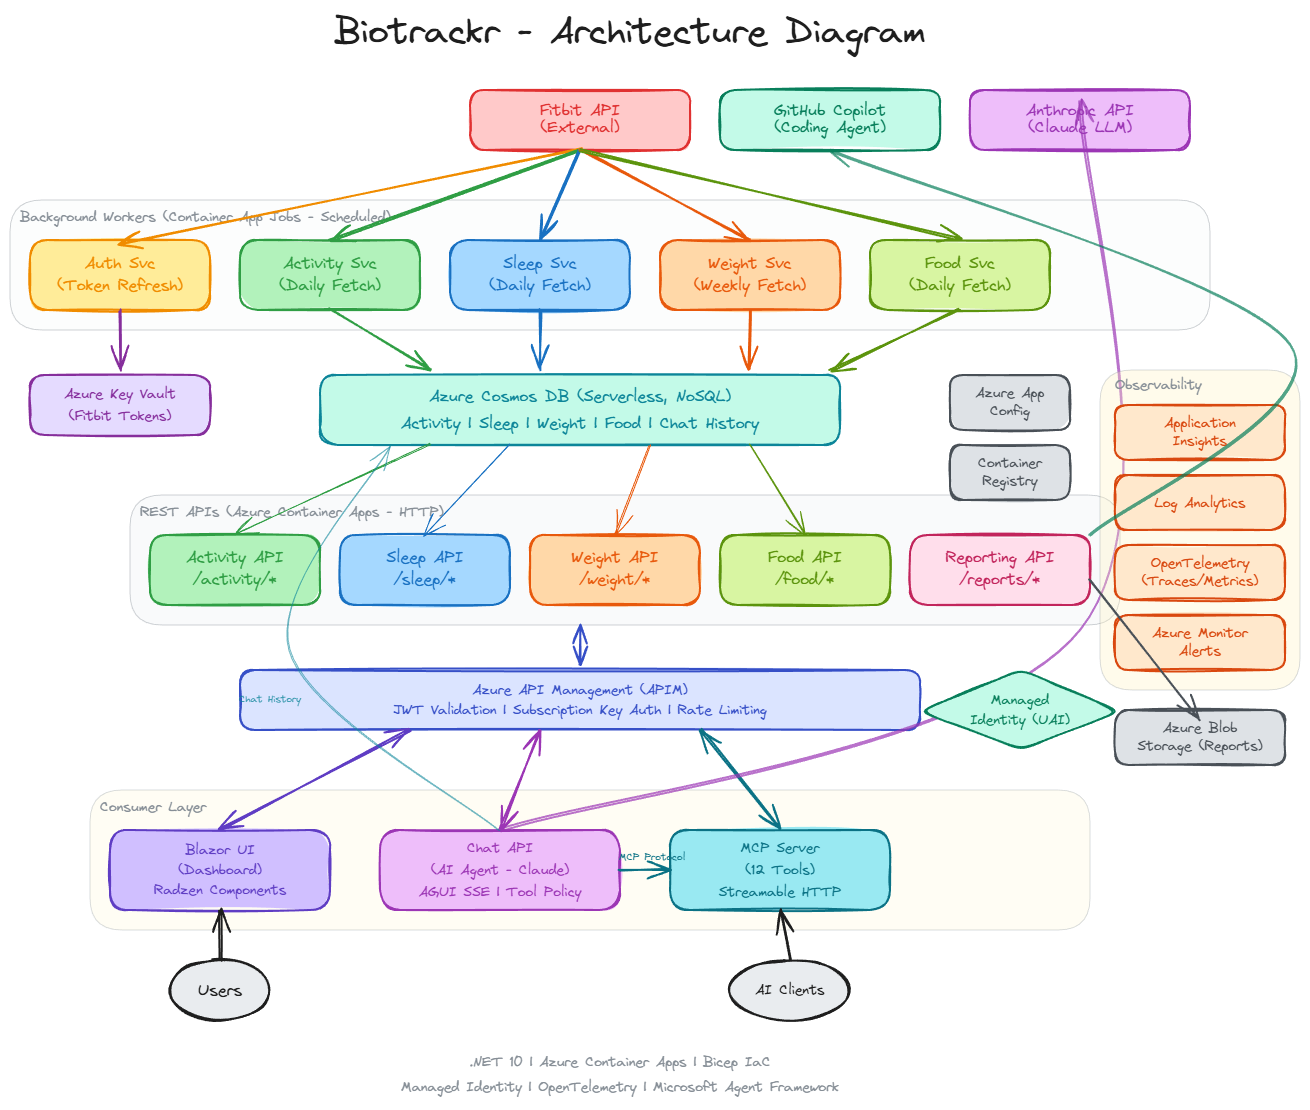
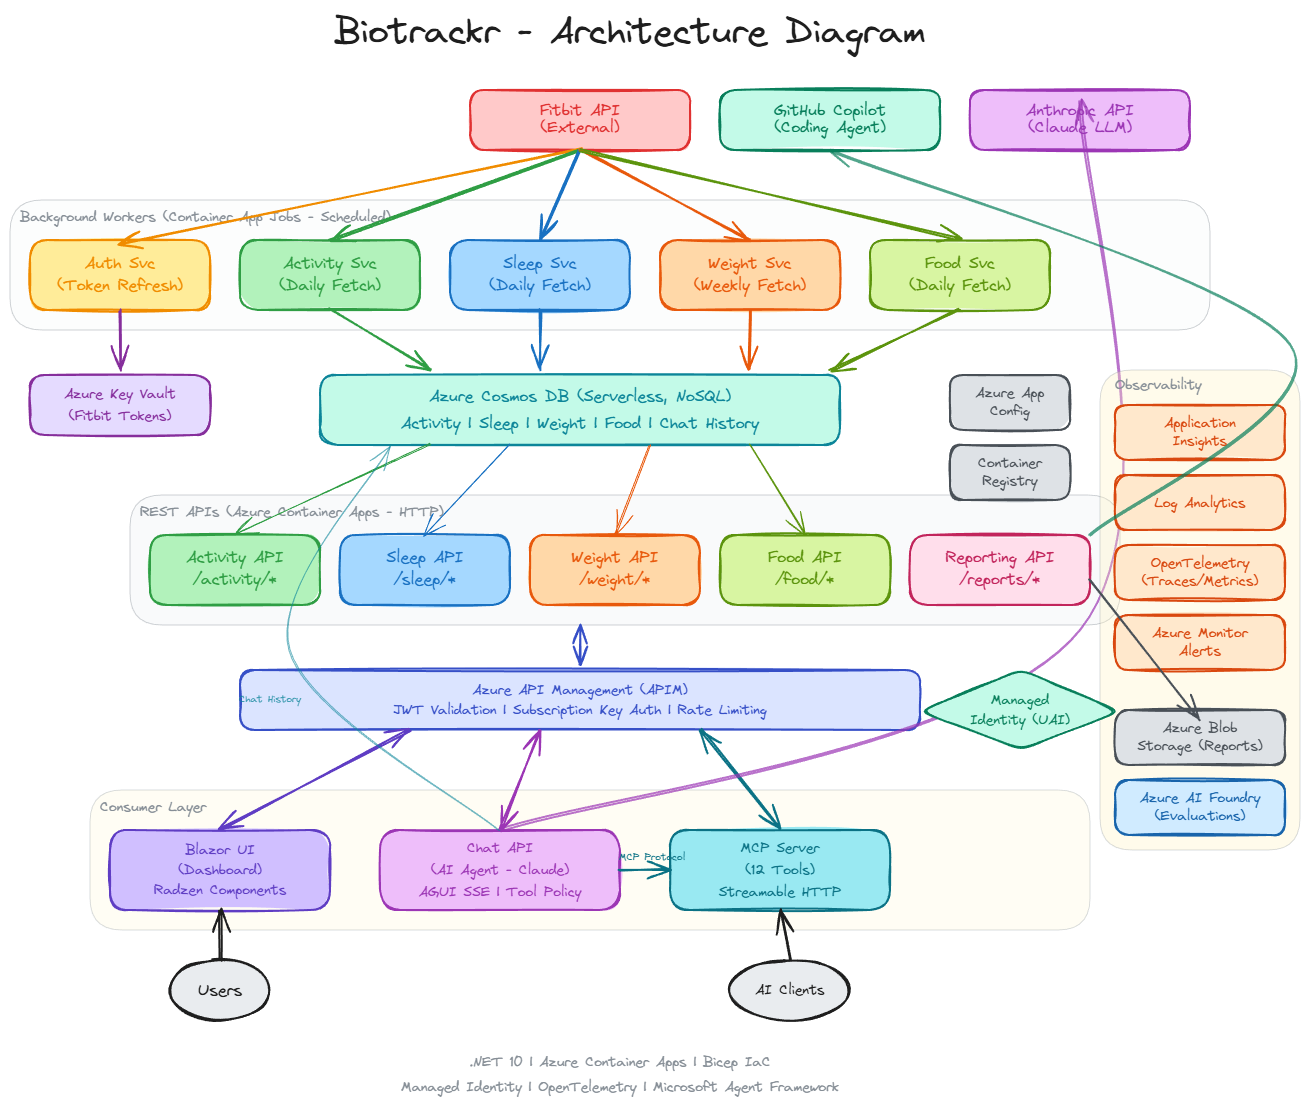
docs(adrs): add Foundry GenAIOps ADR and update README

Changed region(s): [[0.8244, 0.6739, 1.0, 0.7658]]

diff --git a/docs/decision-records/2026-03-31-foundry-genaiops-adoption.md b/docs/decision-records/2026-03-31-foundry-genaiops-adoption.md
@@ -1,0 +1,62 @@
+<!-- markdownlint-disable-file -->
+
+# Decision Record: Adopt Azure AI Foundry for GenAIOps Without Model Deployment
+
+- **Status**: Accepted
+- **Deciders**: Will Velida
+- **Date**: 31 March 2026
+- **Related Docs**: [Foundry GenAIOps Plan](.copilot-tracking/plans/2026-03-27/foundry-genaiops-plan.instructions.md), [Foundry GenAIOps Research](.copilot-tracking/research/2026-03-27/foundry-genaiops-without-model-deployment-research.md), [Evaluation API Research](.copilot-tracking/research/subagents/2026-03-31/azure-ai-projects-evaluation-api-research.md)
+
+## Context
+
+Biotrackr uses Claude Sonnet 4.6 (via Anthropic API) for two AI agents: BiotrackrChatAgent (conversational health data queries) and BiotrackrReportReviewer (report validation). The "Operationalize GenAI Apps" learning path recommended using Azure AI Foundry for evaluation, monitoring, and tracing. However, Anthropic models are not available in the Foundry Model Catalog for the subscription's region, so the standard Foundry deployment pattern (deploy model and use GPT judge evaluators) does not apply.
+
+## Decision
+
+Adopt Azure AI Foundry for GenAIOps without deploying any model in Foundry:
+
+1. Deploy Foundry resource and project via Bicep (East US 2 for RAI evaluator support).
+2. Add OpenTelemetry `gen_ai.*` semantic convention spans for Anthropic calls.
+3. Build a dataset-based evaluation pipeline using the OpenAI-compatible evals REST API with safety and groundedness evaluators (no GPT judge model).
+4. Defer custom agent registration (requires APIM v2 at approximately $175/month).
+
+Key technical decisions:
+
+- Use safety evaluators (violence, self-harm, sexual, hate_unfairness) and GroundednessProEvaluator, which run on the Content Safety backend with no GPT model dependency.
+- Skip GPT-judge quality evaluators (coherence, fluency, relevance) because Chat.Api is a data-grounded agent where these would score near-perfect and fail to discriminate between good and bad outputs.
+- Use the OpenAI-compatible REST API (`/openai/evals`) directly from C# since the .NET SDK v2.0.0-beta.2 has evaluations listed as a Known Issue.
+- Deploy Foundry to East US 2 (not Australia East where other resources reside) because the RAI safety evaluation backend only supports 5 regions.
+- Manage the blob storage connection out-of-band via CLI due to an ARM/data-plane category mismatch (ARM accepts `AzureBlob`, data plane expects `AzureBlobStorage`).
+
+## Consequences
+
+- All evaluation infrastructure is in IaC (Bicep) except the blob storage connection.
+- Evaluations run automatically via GitHub Actions on prompt changes or workflow_dispatch.
+- Safety evaluators provide meaningful protection against harmful content in health data responses.
+- No ongoing model deployment costs in Foundry.
+- Custom agent monitoring dashboard deferred until APIM v2 becomes cost-viable or Consumption SKU is supported.
+
+## Alternatives Considered
+
+1. **Deploy GPT model in Foundry for judge evaluators**: Rejected because Anthropic models are not available in the catalog, and GPT-judge quality evaluators add noise for this data-grounded agent.
+
+2. **Use Microsoft.Extensions.AI.Evaluation**: Rejected because these are local/code-based evaluators, not Foundry-side safety evaluations.
+
+3. **Use Python SDK for evaluations**: Considered as fallback. The Python SDK works reliably but adds a Python dependency to a .NET-only project. Direct REST from C# achieves the same result.
+
+4. **Deploy Foundry in Australia East**: Rejected because the RAI safety evaluation backend does not support Australia East.
+
+5. **Use APIM v2 for AI Gateway and custom agent registration**: Deferred due to cost (approximately $175/month for Basic v2). Consumption SKU is not compatible.
+
+## Follow-up Actions
+
+- Monitor `Azure.AI.Projects` v2.0.0-beta.3+ for evaluation SDK fixes and migrate from REST to SDK when stable.
+- Monitor Foundry AI Gateway support for APIM Consumption SKU and re-evaluate Phase 4 when viable.
+- Expand evaluation datasets beyond initial 10 records per file based on production trace sampling.
+- Consider adding NLP evaluators (BLEU, ROUGE, F1) for data-faithfulness scoring alongside safety evaluators.
+
+## Notes
+
+- Research documents: `.copilot-tracking/research/2026-03-27/foundry-genaiops-without-model-deployment-research.md`, `.copilot-tracking/research/subagents/2026-03-31/azure-ai-projects-evaluation-api-research.md`
+- Plan: `.copilot-tracking/plans/2026-03-27/foundry-genaiops-plan.instructions.md`
+- PRs: #215 (OTel spans), #216 (evaluation pipeline), #217 (runtime skip fix), #218 (evaluation storage), #219 (connection category fix), #220 (OpenAI evals REST path), #221 (East US 2 migration)

diff --git a/README.md b/README.md
@@ -51,7 +51,8 @@ HTTP-based Container Apps serving data from Cosmos DB via Azure API Management:
 - **Azure Blob Storage**: Report artifact storage (PDFs, charts) with SAS URL generation
 - **GitHub Copilot**: Coding agent sidecar for Reporting API that generates and executes Python report scripts
 - **Managed Identity (UAI)**: Passwordless authentication across all Azure resources
-- **Observability**: Application Insights, Log Analytics, OpenTelemetry (traces/metrics), Azure Monitor Alerts
+- **Observability**: Application Insights, Log Analytics, OpenTelemetry (traces/metrics), Azure Monitor Alerts, Azure AI Foundry (evaluation)
+- **Azure AI Foundry**: GenAIOps evaluation and monitoring — safety evaluators, groundedness checking, and evaluation pipeline via Foundry project in East US 2
 
 ## ✨ Features
 
@@ -68,6 +69,7 @@ HTTP-based Container Apps serving data from Cosmos DB via Azure API Management:
 - 🔄 **Graceful Degradation**: Chat API continues operating when MCP tools are unavailable, rebuilding automatically when restored
 - 💾 **Conversation Persistence**: Chat history stored in Cosmos DB with message limits and truncation for context management
 - 🖥 **Web Dashboard**: Blazor Server UI with Radzen components for browsing and visualizing health data
+- 🧪 **AI Safety Evaluation**: Automated safety + groundedness evaluations via Azure AI Foundry with violence, self-harm, sexual content, and hate/unfairness detection
 - ☁ **Cloud-Native**: Fully deployed on Azure with auto-scaling
 - 🚀 **CI/CD**: Automated testing, deployment, and infrastructure management
 
@@ -87,6 +89,7 @@ HTTP-based Container Apps serving data from Cosmos DB via Azure API Management:
 - **Docker**: Containerization for consistent environments
 - **Azure API Management**: API gateway with JWT validation for secure managed identity authentication
 - **ModelContextProtocol SDK**: MCP server with Streamable HTTP transport
+- **Azure AI Foundry**: GenAIOps evaluation pipeline with safety evaluators
 
 ### Frontend
 - **Blazor Server**: Interactive server-rendered UI with .NET 10.0
@@ -116,6 +119,7 @@ HTTP-based Container Apps serving data from Cosmos DB via Azure API Management:
 | **Chat API** | [![Deploy Chat Api](https://github.com/willvelida/biotrackr/actions/workflows/deploy-chat-api.yml/badge.svg)](https://github.com/willvelida/biotrackr/actions/workflows/deploy-chat-api.yml) | ![Code Coverage](https://img.shields.io/badge/Code%20Coverage-86%25-brightgreen?style=flat) | ![Integration Tests](https://img.shields.io/badge/Tests-2%20Passing-brightgreen?style=flat) |
 | **MCP Server** | [![Deploy MCP Server](https://github.com/willvelida/biotrackr/actions/workflows/deploy-mcp-server.yml/badge.svg)](https://github.com/willvelida/biotrackr/actions/workflows/deploy-mcp-server.yml) | ![Code Coverage](https://img.shields.io/badge/Code%20Coverage-76%25-yellow?style=flat) | ![Integration Tests](https://img.shields.io/badge/Tests-13%20Passing-brightgreen?style=flat) |
 | **Reporting API** | [![Deploy Reporting Api](https://github.com/willvelida/biotrackr/actions/workflows/deploy-reporting-api.yml/badge.svg)](https://github.com/willvelida/biotrackr/actions/workflows/deploy-reporting-api.yml) | ![Code Coverage](https://img.shields.io/badge/Code%20Coverage-TBD-lightgrey?style=flat) | ![Integration Tests](https://img.shields.io/badge/Tests-TBD-lightgrey?style=flat) |
+| **AI Evaluation** | [![Evaluate AI Agents](https://github.com/willvelida/biotrackr/actions/workflows/evaluation.yml/badge.svg)](https://github.com/willvelida/biotrackr/actions/workflows/evaluation.yml) | N/A | N/A |
 | **UI** | [![Deploy UI](https://github.com/willvelida/biotrackr/actions/workflows/deploy-ui.yml/badge.svg)](https://github.com/willvelida/biotrackr/actions/workflows/deploy-ui.yml) | N/A | N/A |
 
 ##  License
